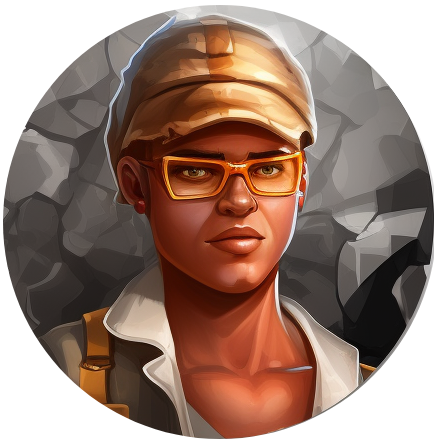
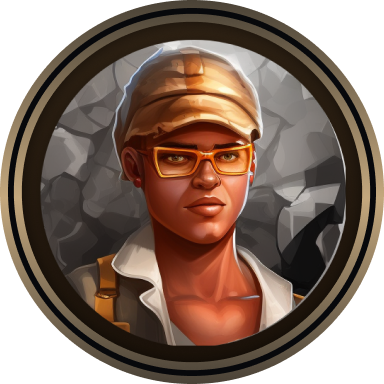
Add new navigation and unit images

diff --git a/src/components/TopMenu.tsx b/src/components/TopMenu.tsx
@@ -40,19 +40,23 @@ interface TopMenuProps {
 }
 
 const researchSteps = [
-  { target: '.nav-buttons-box.research button', content: <div>Open Research Tree and selected of the researches</div> },
-]
+  { target: ".nav-buttons-box.research button", content: <div>Open Research Tree and selected of the researches</div> },
+];
 
 const productionSteps = [
-  { target: '.terrain.village', content: <div>Click on city and add unit or building to production queue</div> },
-]
+  { target: ".terrain.village", content: <div>Click on city and add unit or building to production queue</div> },
+];
 
 const CustomBalanceTooltip = ({ resource, displayName, totalValues }: any) => {
   if (totalValues[resource]) {
-    return <span>{displayName}  (+{totalValues[resource]})</span>
+    return (
+      <span>
+        {displayName} (+{totalValues[resource]})
+      </span>
+    );
   }
-  return <span>{displayName}</span>
-}
+  return <span>{displayName}</span>;
+};
 const TopMenu: React.FC<TopMenuProps> = ({ debug, setDebug }) => {
   const { provider, program } = useWorkspace();
   const { wallet } = useWallet();
@@ -61,7 +65,7 @@ const TopMenu: React.FC<TopMenuProps> = ({ debug, setDebug }) => {
   const [isModalOpen, setModalOpen] = useState(false);
   const [modalContent, setModalContent] = useState("");
   const [openDialog, setOpenDialog] = useState(false);
-  const [showOnboardingType, setShowOnboardingType] = useState<'production' | 'research' | null>(null);
+  const [showOnboardingType, setShowOnboardingType] = useState<"production" | "research" | null>(null);
 
   let totalFoodYield = 0;
   let totalScienceYield = 0;
@@ -86,13 +90,13 @@ const TopMenu: React.FC<TopMenuProps> = ({ debug, setDebug }) => {
     if (tileType === "ironMine") {
       totalIronYiled += 2;
     }
-  })
+  });
 
   cities.forEach((city) => {
     totalFoodYield += city.foodYield;
     totalScienceYield += city.scienceYield;
-    totalGoldYield += city.goldYield
-  })
+    totalGoldYield += city.goldYield;
+  });
 
   const handleOpenDialog = () => {
     if (!wallet?.adapter.publicKey) {
@@ -154,7 +158,7 @@ const TopMenu: React.FC<TopMenuProps> = ({ debug, setDebug }) => {
       {/* Second row of navigation */}
       <div className="bottom-nav">
         <div className="nav-buttons-box research">
-          <Tippy key="research" content="Research" placement="bottom">
+          <Tippy key="research" content="Research" placement="left">
             <Button
               className="tutorial-research-button"
               variant="text"
@@ -168,7 +172,7 @@ const TopMenu: React.FC<TopMenuProps> = ({ debug, setDebug }) => {
             </Button>
           </Tippy>
 
-          <Tippy key="quests" content="Quests" placement="bottom">
+          <Tippy key="quests" content="Quests" placement="left">
             <Button
               className="quests-button"
               variant="text"
@@ -181,7 +185,7 @@ const TopMenu: React.FC<TopMenuProps> = ({ debug, setDebug }) => {
             </Button>
           </Tippy>
 
-          <Tippy key="leaderboard" content="Leaderboard" placement="bottom">
+          <Tippy key="leaderboard" content="Leaderboard" placement="left">
             <Button
               variant="text"
               color="inherit"
@@ -193,7 +197,7 @@ const TopMenu: React.FC<TopMenuProps> = ({ debug, setDebug }) => {
             </Button>
           </Tippy>
 
-          <Tippy key="marketplace" content="Marketplace" placement="bottom">
+          <Tippy key="marketplace" content="Marketplace" placement="left">
             <Button
               className="marketplace-button"
               variant="text"
@@ -209,12 +213,15 @@ const TopMenu: React.FC<TopMenuProps> = ({ debug, setDebug }) => {
       </div>
       <div className="top-nav-wrapper">
         {/* First AppBar for balances & end turn buttons */}
-        <AppBar position="static" className="top-navigation" style={{ border: "none" }}>
+        <AppBar position="static" className="top-navigation">
           <Toolbar style={{ display: "flex", justifyContent: "space-between" }}>
             <div className="balance-container">
+              <div className="star-icon">
+                <img src="/icons/star.png" width="12" alt="" />
+              </div>
               {Object.keys(resources).map((resourceKey) => {
                 if (resourceKey === "gems") return null;
-              
+
                 const displayName = resourceKey.charAt(0).toUpperCase() + resourceKey.slice(1);
                 const imagePath = `/icons/${resourceKey}.png`;
                 const value = resources[resourceKey];
@@ -222,19 +229,21 @@ const TopMenu: React.FC<TopMenuProps> = ({ debug, setDebug }) => {
                 return (
                   <Tippy
                     key={resourceKey}
-                    content={<CustomBalanceTooltip
-                      resource={resourceKey}
-                      displayName={displayName}
-                      totalValues={{
-                        food: totalFoodYield,
-                        science: totalScienceYield,
-                        gold: totalGoldYield,
-                        stone: totalStoneYield,
-                        wood: totalWoodYield,
-                        iron: totalIronYiled,
-                      }}
-                    />
-                  }>
+                    content={
+                      <CustomBalanceTooltip
+                        resource={resourceKey}
+                        displayName={displayName}
+                        totalValues={{
+                          food: totalFoodYield,
+                          science: totalScienceYield,
+                          gold: totalGoldYield,
+                          stone: totalStoneYield,
+                          wood: totalWoodYield,
+                          iron: totalIronYiled,
+                        }}
+                      />
+                    }
+                  >
                     <div className={`balance-box ${resourceKey}-resource`}>
                       <img src={imagePath} width="32" alt={displayName} />
                       {resourceKey === "sol" ? value.toFixed(2) : value}
@@ -251,6 +260,9 @@ const TopMenu: React.FC<TopMenuProps> = ({ debug, setDebug }) => {
                   </Button>
                 </div>
               </Tippy>
+              <div className="star-icon">
+                <img src="/icons/star.png" width="12" alt="" />
+              </div>
             </div>
             <div style={{ marginLeft: "auto", display: "flex" }}>
               <button onClick={handleToggleBackgroundMusic} className="music-toggle-button">
@@ -305,17 +317,17 @@ const TopMenu: React.FC<TopMenuProps> = ({ debug, setDebug }) => {
       </div>
       <Joyride
         run={showOnboardingType}
-        steps={showOnboardingType === 'production' ? productionSteps : researchSteps}
+        steps={showOnboardingType === "production" ? productionSteps : researchSteps}
         styles={{
           options: {
             backgroundColor: "rgb(34, 47, 59)",
             textColor: "#fff",
-            primaryColor: '#512da8',
+            primaryColor: "#512da8",
           },
         }}
         callback={(state: any) => {
           if ([STATUS.SKIPPED, STATUS.FINISHED].includes(state.status)) {
-            setShowOnboardingType(null)
+            setShowOnboardingType(null);
           }
         }}
       />

diff --git a/src/styles/global.scss b/src/styles/global.scss
@@ -1,6 +1,13 @@
+@import url('https://fonts.googleapis.com/css2?family=Alegreya+Sans+SC:wght@400;700&display=swap');
+
 body {
   background: rgb(46, 63, 75);
   background: linear-gradient(180deg, rgba(46, 63, 75, 1) 0%, rgba(30, 39, 52, 1) 100%);
+  font-family: 'Alegreya Sans SC', sans-serif;
+}
+
+button {
+  font-family: 'Alegreya Sans SC', sans-serif;
 }
 
 body.light-mode {
@@ -11,6 +18,11 @@ body.light-mode {
 
 h6 {
   font-size: 14px !important;
+}
+
+.react-joyride__tooltip {
+  background: linear-gradient(180deg, rgba(168, 110, 50, 0.2) 0%, rgba(79, 38, 0, 0.2) 100%), rgba(30, 35, 40, 0.95);
+    border: 2px solid #C8AA6E;
 }
 
 .home-container {
@@ -73,38 +85,39 @@ button.fixed-width-button-secondary {
   display: flex;
   margin-left: auto;
   position: fixed;
-  top: 64px; // height of top-navigation
-  right: 0;
+  top: 75px; // height of top-navigation
+  right: 30px;
   z-index: 100;
 
   .nav-buttons-box {
+    display: flex;
+    flex-direction: column;
     padding: 0.25rem;
-    background: rgb(32 43 55);
-    box-shadow: 0px 2px 7px 0px rgba(0, 0, 0, 0.75);
-    border-bottom-left-radius: 0.5rem;
-    -webkit-box-shadow: 0px 2px 2px 0px rgba(0, 0, 0, 0.75);
-    -moz-box-shadow: 0px 2px 7px 0px rgba(0, 0, 0, 0.75);
 
     button {
       height: 100%;
+      background-image: url('../../public/icons/round-button.png');
+      background-size: 100% 100%;
+      padding: 10px;
+      margin: 5px 0;
+      border-radius: 45px;
 
       &:hover {
-        border-radius: 0.5rem;
-        outline: 1px solid #3c4a57;
+        box-shadow: 0 0 5px 2px #c8aa6e;
+        border-radius: 45px;
       }
     }
   }
 }
 
+
 header.top-navigation {
-  background: rgb(34, 47, 59);
-  background: radial-gradient(circle, rgba(34, 47, 59, 1) 0%, rgba(30, 39, 52, 1) 100%);
-  -ms-flex-negative: 0;
-  border: 1px solid #3c4a57;
   color: #fff;
-  box-shadow: 0px 2px 7px 0px rgba(0, 0, 0, 0.75);
-  -webkit-box-shadow: 0px 2px 7px 0px rgba(0, 0, 0, 0.75);
-  -moz-box-shadow: 0px 2px 7px 0px rgba(0, 0, 0, 0.75);
+  background: linear-gradient(180deg, rgba(168, 110, 50, 0.20) 0%, rgba(79, 38, 0, 0.20) 100%), rgba(30, 35, 40, 0.95);
+    border: 2px solid #C8AA6E;
+    box-shadow: inset 0px 0px 0px 1px #000000b0, 0px 0px 0px 1px #000000b0;
+    -webkit-box-shadow: inset 0px 0px 0px 1px #000000b0, 0px 0px 0px 1px #000000b0;
+    -moz-box-shadow: inset 0px 0px 0px 1px #000000b0, 0px 0px 0px 1px #000000b0;
 }
 
 header.top-navigation .balance-container {
@@ -117,10 +130,15 @@ header.top-navigation .balance-box {
   align-items: center;
   margin-right: 5px;
   padding: 5px 10px;
-  border: 1px solid #3d4a57;
-  border-radius: 5px;
-  font-size: 14px;
+  font-size: 16px;
   cursor: pointer;
+  background-image: url('../../public/icons/balance-bg.png');
+  background-size: 100% 100%;
+  background-repeat: no-repeat;
+}
+
+header.top-navigation .balance-box.gems-resource {
+  background-image: url('../../public/icons/balance-bg-light.png');
 }
 
 header.top-navigation .balance-box img {
@@ -158,29 +176,26 @@ div.unit {
   transform: translate(-50%, -50%);
   font-size: 64px;
   z-index: 1;
-  width: 80%;
-  height: 80%;
+  width: 90%;
+  height: 90%;
+  margin: 5px;
 }
 
 div.unit img {
   border-radius: 45px;
-  border: 1px solid white;
+  box-shadow: 0px 2px 5px 0px #0000009a;
 }
 
 .unit.selected {
-  box-shadow: 0 0 5px 2px gold;
+  box-shadow: 0 0 5px 2px #bea27a;
   filter: none !important;
   border-radius: 45px;
 }
 
 .unit.npc {
-  box-shadow: 0 0 5px 2px red;
+  box-shadow: 0 0 5px 2px #b62d3a;
   filter: none !important;
   border-radius: 45px;
-}
-
-div.unit.npc img {
-  border: 1px solid red;
 }
 
 .unit .health-bar {
@@ -339,19 +354,30 @@ img.terrain.undiscovered {
   justify-content: space-between;
 }
 
+.star-icon {
+  padding-right: 5px;
+}
+
 .top-navigation button {
   margin: 0 5px;
+  font-family: "Alegreya Sans SC", sans-serif;
 }
 
 .top-navigation button.end-turn-button {
   margin-left: auto;
-  color: #fff;
-  border: 1px solid #fff;
+  color: #DFD6B9;
+  text-transform: none;
+  border-radius: 3px;
+  border: 1px solid var(--light-gradient, #927F61);
+  background: linear-gradient(180deg, #A38E5E 0%, #6B5B38 100%);
 }
 
 .top-navigation button.end-game-button {
-  color: #bbb;
-  border: 1px solid #bbb;
+  color: #CDBE91;
+  text-transform: none;
+  border-radius: 3px;
+  border: 1px solid var(--light-gradient, #927F61);
+  background: linear-gradient(180deg, #75583E 0%, #3F2F20 100%);
 }
 
 .no-select {
@@ -442,19 +468,19 @@ img.terrain.undiscovered {
 .music-toggle-button {
   background: none;
   border: none;
-  color: #fff;
+  color: #CAB37D;
   cursor: pointer;
   font-size: 20px;
   vertical-align: middle;
 }
 .music-toggle-button:hover {
-  color: #ccc;
+  color: #6B5830;
 }
 
 .vertical-divider {
   width: 5px;
   height: 35px;
-  border-left: 1px dotted #3d4a57;
+  border-left: 1px dotted #c8aa6e;
 }
 
 .primary-border-with-box-shadow {

diff --git a/src/pages/GamePage.tsx b/src/pages/GamePage.tsx
@@ -100,7 +100,6 @@ const GamePage: React.FC = () => {
       return newMessages;
     });
   };
-
   return (
     <div className="full-screen">
       <TopMenu debug={debug} setDebug={setDebug} />
@@ -112,12 +111,17 @@ const GamePage: React.FC = () => {
         continuous={true}
         disableBeacon={true}
         callback={handleJoyrideCallback}
+        className="joyride-modal"
         styles={{
           options: {
-            backgroundColor: "rgb(34, 47, 59)",
+            backgroundColor: "#36302a",
             textColor: "#fff",
-            primaryColor: '#512da8',
+            primaryColor: '#C8AA6E',
+            border: "2px solid #C8AA6E",
           },
+          main: {
+            border: "2px solid #C8AA6E",
+          }
         }}
       />
     </div>
